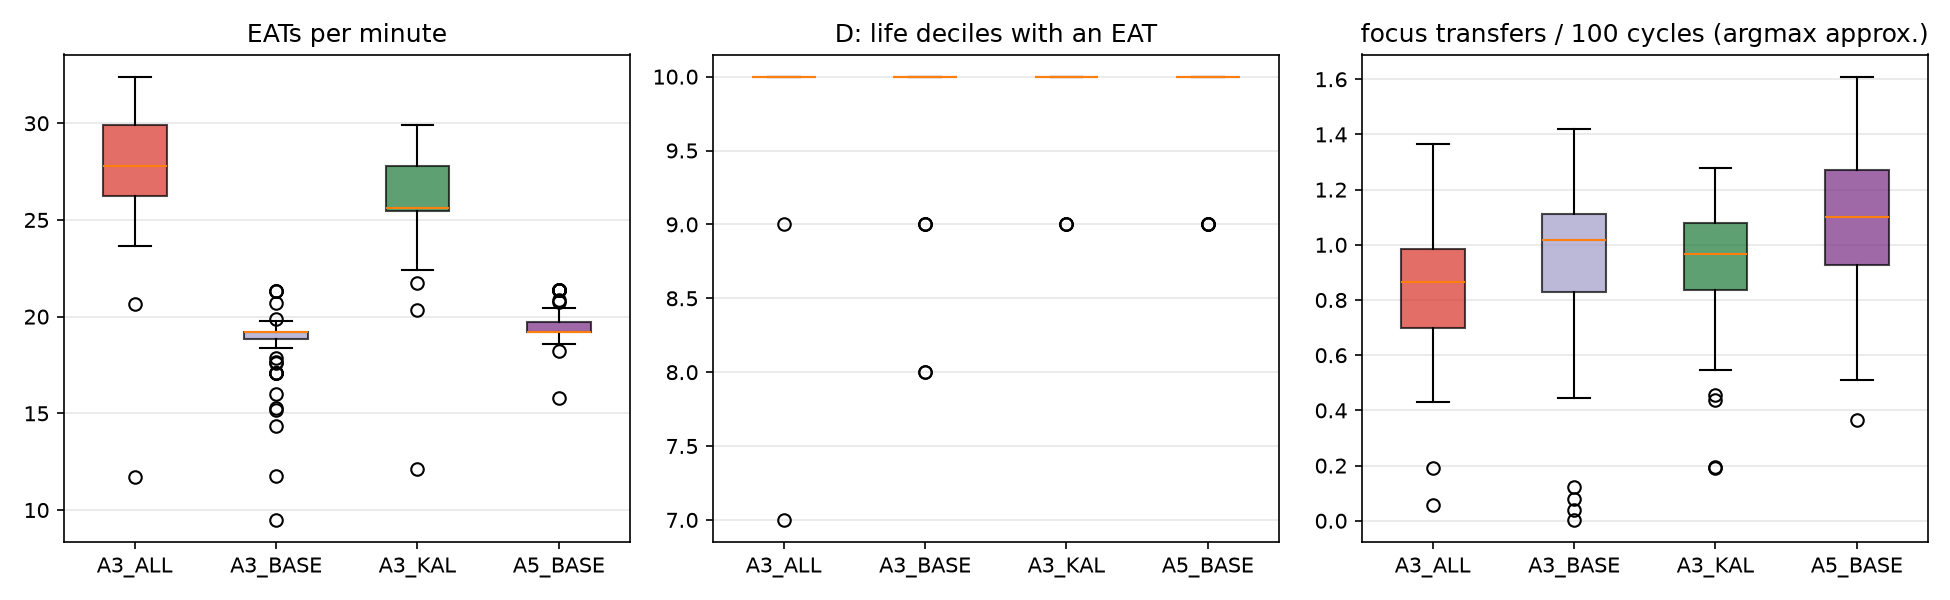
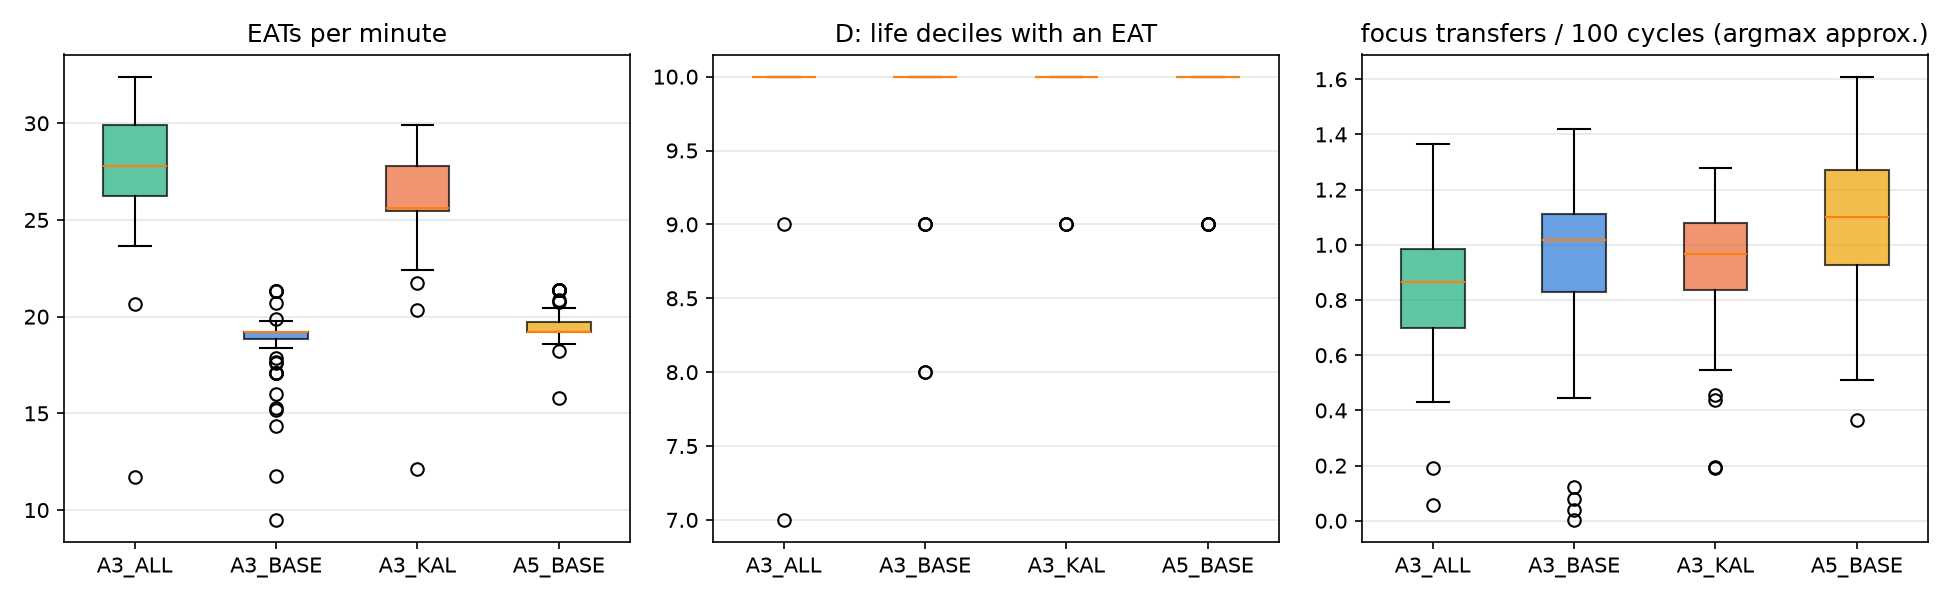
docs: per-arm comparison figure in the p117_kalman reports instead of the wide table; arm colours from the dataviz reference palette in the specs

diff --git a/analysis/diagnostics/p117_kalman_arm_figure.py b/analysis/diagnostics/p117_kalman_arm_figure.py
@@ -1,0 +1,69 @@
+"""Per-arm comparison figure of a p117_kalman report (replaces the wide per-arm table).
+
+One small panel per measure, one dot per trial (trial mean over the trial's creatures), a bar at the arm mean with its value written above it.
+Same arm order and colours as the spec (experiments/<name>.yml), which uses the dataviz reference palette's first slots.
+
+    python3 analysis/diagnostics/p117_kalman_arm_figure.py <experiment>   # p117_kalman | p117_kalman_local
+"""
+import sys
+import pathlib
+
+import matplotlib
+matplotlib.use("Agg")
+import matplotlib.pyplot as plt
+import numpy as np
+import pandas as pd
+import yaml
+
+TEXT, MUTED, GRID, SURFACE = "#0b0b0b", "#52514e", "#e4e3df", "#fcfcfb"
+PANELS = [("died", "Creatures dead at the cap (%)", 100.0, "{:.0f}%"),
+          ("dH_life", "d(H) over life (lower is better)", 1.0, "{:.2f}"),
+          ("eat_per_min", "EATs per minute", 1.0, "{:.1f}"),
+          ("eat_rg_per_min", "RED + GREEN EATs per minute", 1.0, "{:.1f}")]
+
+
+def main(name):
+    spec = yaml.safe_load(open(f"experiments/{name}.yml"))
+    fig_dir = pathlib.Path(f"docs/reports/figures/{name}")
+    cr = pd.read_csv(fig_dir / "creature_metrics.csv")
+    arms = [c["key"] for c in spec["conditions"] if c["key"] in set(cr["condition"])]
+    label = {c["key"]: c["label"] for c in spec["conditions"]}
+    color = {c["key"]: c["color"] for c in spec["conditions"]}
+    short = {"a3_base": "A3\ncontrol", "a3_mc": "A3 +\nAPPROACH", "a3_kal": "A3 +\nKalman", "a3_all": "A3 + Kalman\n+ whole-draw", "a5_base": "A5\ncontrol"}
+    n_trials = cr["trial"].nunique()
+    fig, axes = plt.subplots(2, 2, figsize=(10.5, 7.6), facecolor=SURFACE)
+    rng = np.random.default_rng(1)
+    for ax, (col, title, scale, fmt) in zip(axes.ravel(), PANELS):
+        ax.set_facecolor(SURFACE)
+        tm = cr.groupby(["condition", "trial"])[col].mean().unstack(0) * scale
+        top = float(np.nanmax(tm.values))
+        for i, a in enumerate(arms):
+            v = tm[a].dropna().values
+            ax.bar(i, v.mean(), width=0.55, color=color[a], alpha=0.28, zorder=1, linewidth=0)
+            ax.hlines(v.mean(), i - 0.275, i + 0.275, color=color[a], linewidth=2.5, zorder=3)
+            ax.scatter(i + rng.uniform(-0.17, 0.17, len(v)), v, s=34, color=color[a], edgecolor=SURFACE, linewidth=1.2, zorder=4)
+            ax.text(i, top * 1.07, fmt.format(v.mean()), ha="center", va="bottom", fontsize=11, color=TEXT, fontweight="bold")
+        ax.set_xticks(range(len(arms)))
+        ax.set_xticklabels([short[a] for a in arms], fontsize=9, color=TEXT)
+        ax.set_ylim(0, top * 1.22)
+        if col == "died":
+            ax.set_yticks(range(0, 101, 20))
+        ax.set_title(title, loc="left", fontsize=11.5, color=TEXT, pad=10)
+        ax.grid(axis="y", color=GRID, linewidth=0.8, zorder=0)
+        ax.tick_params(axis="y", colors=MUTED, labelsize=9, length=0)
+        ax.tick_params(axis="x", length=0)
+        for s in ("top", "right", "left"):
+            ax.spines[s].set_visible(False)
+        ax.spines["bottom"].set_color(GRID)
+    cap = spec.get("name", name)
+    fig.suptitle(f"{cap}: per-arm comparison", x=0.01, ha="left", fontsize=13, color=TEXT, fontweight="bold")
+    fig.text(0.01, 0.005, f"Dot = one trial (mean of its {cr.groupby(['condition','trial']).size().max()} creatures; {n_trials} trials per arm); line and number = arm mean of the trial means.",
+             fontsize=8.5, color=MUTED, ha="left", va="bottom")
+    fig.tight_layout(rect=(0, 0.03, 1, 0.95))
+    out = fig_dir / "arms.png"
+    fig.savefig(out, dpi=170, facecolor=SURFACE)
+    print(out)
+
+
+if __name__ == "__main__":
+    main(sys.argv[1])

diff --git a/docs/reports/p117_kalman_report.md b/docs/reports/p117_kalman_report.md
@@ -25,7 +25,7 @@ Written before the run (recipe sections 2b and 4):
 
 ## Results
 
-**Headline.** Deaths at 60 minutes (of 60 creatures per arm): `a3_base` 20, `a3_kal` **13**, `a3_all` 28, `a5_base` 16. EATs per minute: 18.6, 25.8, 27.6, 19.6. d(H) over life: 1.83, 1.39, 1.65, 1.40.
+**Headline.** Deaths at 60 minutes (of 60 creatures per arm): `a3_base` 20, `a3_kal` **13**, `a3_all` 28, `a5_base` 16. EATs per minute: 18.6, 25.8, 27.6, 19.6. d(H) over life: 1.83, 1.38, 1.65, 1.40.
 
 | contrast | deaths | log-rank p | Fisher p |
 |---|---|---|---|
@@ -38,24 +38,12 @@ Written before the run (recipe sections 2b and 4):
 
 The tables and figures below are the generated ones (per-arm creature means with trial means in brackets, survival curves, calibration, paired differences by seed).
 
-### Per-arm measures (creature mean, then trial means)
+### Per-arm comparison
 
-| measure | A3 + all three (+ whole-draw stop rule) | A3 (control) | A3 + APPROACH credit + Kalman operant | A5 (fixed order, control) |
-|---|---|---|---|---|
-| d(H) over life | 1.646 (trials 1.771, 1.280, 1.964, 1.207, 1.191, 1.822, 1.602, 2.118, 1.646, 1.186, 1.962, 2.006) | 1.832 (trials 1.349, 2.367, 2.810, 1.327, 1.401, 3.238, 1.636, 1.532, 1.508, 1.661, 1.626, 1.525) | 1.385 (trials 0.992, 1.021, 1.813, 1.468, 1.348, 1.192, 1.238, 1.339, 2.437, 1.431, 1.059, 1.282) | 1.404 (trials 1.274, 1.069, 1.783, 1.225, 1.076, 1.163, 2.309, 1.049, 1.701, 1.233, 1.278, 1.683) |
-| d(H), first 180 s | 1.415 (trials 1.372, 1.583, 1.634, 1.052, 1.079, 1.323, 1.464, 1.701, 1.381, 1.258, 1.619, 1.516) | 1.862 (trials 2.351, 2.871, 2.990, 1.617, 1.390, 2.483, 1.164, 1.503, 1.845, 1.581, 1.234, 1.315) | 1.211 (trials 1.143, 1.014, 1.114, 1.305, 1.302, 1.155, 1.117, 1.657, 1.161, 1.015, 0.966, 1.581) | 1.450 (trials 1.326, 1.096, 1.040, 1.428, 1.038, 1.732, 1.205, 1.864, 1.939, 1.480, 1.828, 1.428) |
-| EATs per minute | 27.592 (trials 27.194, 29.048, 27.554, 27.762, 27.989, 28.444, 27.595, 23.813, 28.530, 28.048, 29.065, 26.060) | 18.567 (trials 19.276, 18.140, 17.151, 18.474, 19.206, 17.459, 19.580, 19.010, 18.944, 17.982, 18.708, 18.870) | 25.797 (trials 26.051, 26.480, 25.375, 26.350, 26.244, 27.342, 26.480, 26.052, 21.780, 24.149, 27.345, 25.915) | 19.557 (trials 19.653, 19.218, 19.715, 19.221, 19.220, 20.072, 19.067, 19.218, 19.221, 20.507, 20.200, 19.368) |
-| RED+GREEN EATs per minute | 12.074 (trials 11.957, 12.715, 12.076, 12.182, 12.443, 12.314, 12.208, 10.239, 12.639, 12.404, 12.689, 11.025) | 9.164 (trials 9.673, 8.744, 8.839, 9.239, 9.583, 8.150, 9.634, 9.137, 9.614, 8.856, 9.321, 9.174) | 11.849 (trials 11.931, 12.222, 11.820, 11.944, 11.944, 12.579, 11.989, 11.875, 10.072, 11.235, 12.534, 12.043) | 9.863 (trials 9.870, 9.659, 9.894, 9.934, 9.904, 10.303, 9.162, 9.859, 9.757, 10.234, 10.060, 9.723) |
-| D: life deciles with an EAT | 9.933 (trials 10.000, 10.000, 10.000, 10.000, 10.000, 9.800, 10.000, 9.400, 10.000, 10.000, 10.000, 10.000) | 9.883 (trials 10.000, 10.000, 9.800, 9.800, 10.000, 9.600, 10.000, 10.000, 10.000, 9.600, 10.000, 9.800) | 9.950 (trials 10.000, 10.000, 10.000, 10.000, 10.000, 10.000, 10.000, 10.000, 9.400, 10.000, 10.000, 10.000) | 9.933 (trials 9.800, 10.000, 10.000, 10.000, 10.000, 10.000, 9.600, 10.000, 10.000, 9.800, 10.000, 10.000) |
-| observed time (s) | 2850.982 (trials 2542.157, 3595.753, 2081.812, 3596.349, 3562.212, 2529.032, 2892.129, 2460.975, 3462.098, 3092.729, 3215.478, 1181.062) | 3029.297 (trials 3254.577, 2919.953, 2803.147, 3537.522, 3598.914, 1953.143, 3096.865, 2873.219, 3232.917, 2952.700, 2822.471, 3306.131) | 3257.556 (trials 3596.610, 3596.422, 2312.404, 3465.150, 3567.311, 3595.408, 3596.333, 3596.457, 1521.540, 3221.680, 3594.908, 3426.456) | 3239.535 (trials 3595.236, 3596.609, 2305.201, 3596.091, 3596.272, 3596.626, 1586.557, 3596.615, 3566.072, 3595.196, 3344.533, 2899.410) |
-| died (share) | 0.467 (trials 0.400, 0.000, 1.000, 0.000, 0.200, 0.800, 0.400, 0.600, 0.400, 0.200, 0.600, 1.000) | 0.333 (trials 0.200, 0.200, 0.400, 0.200, 0.000, 0.800, 0.200, 0.600, 0.200, 0.200, 0.400, 0.600) | 0.217 (trials 0.000, 0.000, 0.800, 0.200, 0.200, 0.000, 0.000, 0.000, 0.800, 0.200, 0.000, 0.400) | 0.267 (trials 0.000, 0.000, 1.000, 0.000, 0.000, 0.000, 1.000, 0.000, 0.200, 0.000, 0.400, 0.600) |
-| focus transfers per 100 cycles (argmax approx.) | 0.841 (trials 0.790, 0.978, 0.676, 0.974, 0.976, 0.803, 0.847, 0.598, 0.839, 1.049, 0.772, 0.785) | 0.929 (trials 1.058, 0.880, 0.781, 0.951, 1.035, 0.613, 1.056, 1.072, 1.080, 0.820, 0.910, 0.891) | 0.930 (trials 1.068, 1.035, 0.769, 0.869, 0.933, 1.079, 1.016, 0.942, 0.545, 0.917, 0.925, 1.057) | 1.080 (trials 1.173, 1.227, 0.795, 1.153, 1.173, 1.273, 0.694, 1.352, 0.968, 1.235, 1.044, 0.877) |
-| focus opens per 100 cycles (argmax approx.) | 0.001 (trials 0.002, 0.002, 0.001, 0.001, 0.001, 0.001, 0.002, 0.001, 0.001, 0.002, 0.000, 0.001) | 0.001 (trials 0.001, 0.001, 0.001, 0.001, 0.001, 0.001, 0.000, 0.002, 0.001, 0.001, 0.001, 0.001) | 0.001 (trials 0.001, 0.000, 0.002, 0.001, 0.001, 0.001, 0.002, 0.001, 0.001, 0.001, 0.002, 0.001) | 0.001 (trials 0.002, 0.001, 0.002, 0.001, 0.001, 0.001, 0.001, 0.001, 0.001, 0.001, 0.001, 0.000) |
-| focus transfers per 100 cycles (tracker) | 0.126 (trials 0.211, 0.207, 0.046, 0.051, 0.051, 0.238, 0.049, 0.130, 0.207, 0.049, 0.218, 0.048) | 0.137 (trials 0.081, 0.069, 0.064, 0.082, 0.271, 0.201, 0.194, 0.207, 0.237, 0.078, 0.078, 0.079) | 0.119 (trials 0.047, 0.045, 0.273, 0.233, 0.182, 0.222, 0.184, 0.052, 0.043, 0.045, 0.058, 0.042) | 0.130 (trials 0.231, 0.059, 0.065, 0.196, 0.061, 0.058, 0.213, 0.067, 0.228, 0.254, 0.073, 0.058) |
-| focus opens per 100 cycles (tracker) | 0.513 (trials 0.524, 0.530, 0.502, 0.507, 0.509, 0.514, 0.500, 0.514, 0.526, 0.506, 0.523, 0.502) | 0.497 (trials 0.491, 0.495, 0.495, 0.503, 0.502, 0.484, 0.506, 0.512, 0.504, 0.491, 0.489, 0.497) | 0.516 (trials 0.514, 0.511, 0.515, 0.519, 0.534, 0.529, 0.532, 0.503, 0.501, 0.502, 0.518, 0.515) | 0.520 (trials 0.531, 0.522, 0.513, 0.530, 0.510, 0.516, 0.511, 0.516, 0.542, 0.530, 0.518, 0.506) |
-| focused share of cycles (tracker) | 0.883 (trials 0.884, 0.871, 0.892, 0.874, 0.869, 0.880, 0.884, 0.913, 0.879, 0.870, 0.874, 0.906) | 0.929 (trials 0.921, 0.938, 0.944, 0.929, 0.921, 0.946, 0.926, 0.922, 0.912, 0.932, 0.928, 0.930) | 0.881 (trials 0.873, 0.883, 0.881, 0.878, 0.877, 0.866, 0.881, 0.892, 0.910, 0.885, 0.867, 0.878) | 0.907 (trials 0.900, 0.903, 0.908, 0.900, 0.908, 0.909, 0.925, 0.904, 0.903, 0.901, 0.906, 0.915) |
-| episodes per creature | 544.883 (trials 541.400, 775.000, 344.200, 605.800, 603.600, 566.000, 483.000, 478.000, 731.200, 517.200, 695.800, 197.400) | 575.883 (trials 563.800, 508.400, 485.000, 626.400, 805.200, 411.600, 640.400, 601.800, 691.000, 516.000, 485.200, 575.800) | 614.817 (trials 609.800, 603.400, 542.800, 758.200, 743.600, 777.800, 747.200, 602.600, 259.600, 534.200, 621.800, 576.800) | 626.800 (trials 798.800, 631.000, 402.200, 762.600, 620.400, 623.600, 343.000, 633.200, 796.000, 822.800, 592.800, 495.200) |
-| food share of EATs, first 20% of life (A3 criterion) | 0.445 (trials 0.458, 0.451, 0.456, 0.433, 0.455, 0.443, 0.455, 0.411, 0.444, 0.453, 0.430, 0.450) | 0.480 (trials 0.483, 0.492, 0.527, 0.459, 0.483, 0.445, 0.477, 0.461, 0.482, 0.465, 0.492, 0.489) | 0.461 (trials 0.466, 0.460, 0.457, 0.443, 0.445, 0.472, 0.445, 0.446, 0.501, 0.461, 0.455, 0.479) | 0.495 (trials 0.502, 0.482, 0.498, 0.507, 0.507, 0.500, 0.464, 0.501, 0.500, 0.484, 0.487, 0.505) |
+![Per-arm comparison](figures/p117_kalman/arms.png)
+
+One dot per trial, the line and the number above it the arm mean. The full per-arm table (all measures, creature means and trial means) is `figures/p117_kalman/creature_metrics.csv`, one row per creature.
+
 ### Drive deficit
 
 ![Drive deficit](figures/p117_kalman/deficit.png)
@@ -385,7 +373,7 @@ Differences of trial means, later arm minus earlier arm; SD has 2 degrees of fre
 
 ### 1. What the data say
 
-**The Kalman operant cell (with the APPROACH credit fix) brings A3 to the level of the fixed order.** `a3_kal` has 13 deaths against 16 for A5 (p = 0.56), the same d(H) (1.39 and 1.40; trial-level difference -0.02), and a mean observed time of 3258 s against 3240 s. In feeding it is clearly ahead of A5: +6.2 EATs per minute and +2.0 RED+GREEN EATs per minute, in 12 of 12 seeds. Against the A3 control the direction is the same everywhere: 13 against 20 deaths, d(H) lower in 10 of 12 seeds (mean -0.45), feeding higher in 12 of 12 seeds (+7.2 EATs per minute, +2.7 RED+GREEN). The A3 control and A5 do not differ here (20 against 16 deaths, p = 0.37), so in this run there was less deficit to close than in `p117_factorial` (29 against 15).
+**The Kalman operant cell (with the APPROACH credit fix) brings A3 to the level of the fixed order.** `a3_kal` has 13 deaths against 16 for A5 (p = 0.56), the same d(H) (1.38 and 1.40; trial-level difference -0.02), and a mean observed time of 3258 s against 3240 s. In feeding it is clearly ahead of A5: +6.2 EATs per minute and +2.0 RED+GREEN EATs per minute, in 12 of 12 seeds. Against the A3 control the direction is the same everywhere: 13 against 20 deaths, d(H) lower in 10 of 12 seeds (mean -0.45), feeding higher in 12 of 12 seeds (+7.2 EATs per minute, +2.7 RED+GREEN). The A3 control and A5 do not differ here (20 against 16 deaths, p = 0.37), so in this run there was less deficit to close than in `p117_factorial` (29 against 15).
 
 **The whole-draw stop rule is harmful.** `a3_all` has 28 deaths, against 13 for the same arm without the rule (log-rank p = 0.004, Fisher p = 0.007), worse than A5 (p = 0.018) and, not significantly, than the control (p = 0.16-0.19). Its d(H) is 0.26 higher than `a3_kal`'s (8 of 12 seeds worse) and its observed time shorter (2851 s against 3258 s). The 20-minute local pilot had found no difference between these two arms (2 and 2 deaths of 30); deaths are spread over the hour (median death time 1839 s for `a3_kal`, 1946 s for `a3_all`), so a third of the window sees only a third of them.
 

diff --git a/docs/reports/p117_kalman_local_report.md b/docs/reports/p117_kalman_local_report.md
@@ -19,24 +19,12 @@ Recipe sections 3 and 4, with the 20-minute window of section 8: (1) `a3_mc` no 
 
 **Headline.** Deaths at 20 minutes (of 30 creatures per arm): control 7, + APPROACH credit 3, + Kalman operant 2, + whole-draw rule 2. EATs per minute 17.2, 18.2, 24.6, 27.0; d(H) over life 2.15, 1.50, 1.21, 1.27. All three changes against the control: 2 against 7 deaths (log-rank p = 0.060, Fisher p = 0.145); survival and d(H) better in 5 of 6 seeds, feeding in 6 of 6.
 
-### Per-arm measures (creature mean, then trial means)
+### Per-arm comparison
 
-| measure | A3 + all three (+ whole-draw stop rule) | A3 (control) | A3 + APPROACH credit + Kalman operant | A3 + APPROACH credit |
-|---|---|---|---|---|
-| d(H) over life | 1.271 (trials 1.043, 1.147, 1.765, 1.158, 1.541, 0.974) | 2.149 (trials 2.078, 2.276, 1.164, 2.472, 2.177, 2.729) | 1.210 (trials 1.034, 1.268, 1.516, 0.933, 1.217, 1.290) | 1.495 (trials 1.285, 1.376, 2.056, 1.127, 1.867, 1.259) |
-| d(H), first 180 s | 1.421 (trials 1.373, 1.351, 2.253, 0.983, 1.455, 1.109) | 1.830 (trials 1.528, 2.133, 1.769, 2.034, 1.674, 1.844) | 1.099 (trials 1.107, 1.016, 1.423, 1.036, 1.116, 0.896) | 1.507 (trials 1.461, 1.435, 1.621, 1.242, 1.625, 1.660) |
-| EATs per minute | 26.970 (trials 28.446, 25.859, 26.255, 27.151, 26.961, 27.151) | 17.235 (trials 15.100, 18.103, 19.394, 18.158, 14.939, 17.716) | 24.630 (trials 25.858, 23.273, 23.663, 25.860, 23.272, 25.855) | 18.152 (trials 18.100, 18.101, 17.116, 19.395, 19.394, 16.807) |
-| RED+GREEN EATs per minute | 11.951 (trials 12.516, 11.566, 11.335, 12.161, 12.149, 11.980) | 8.188 (trials 7.697, 8.014, 9.404, 8.640, 7.096, 8.278) | 11.477 (trials 12.323, 10.505, 11.147, 11.768, 10.888, 12.227) | 8.586 (trials 8.575, 8.626, 7.446, 9.617, 9.050, 8.201) |
-| D: life deciles with an EAT | 9.567 (trials 10.000, 9.400, 9.400, 9.600, 9.600, 9.400) | 9.000 (trials 7.800, 9.200, 9.200, 9.800, 8.200, 9.800) | 9.300 (trials 9.600, 9.200, 9.400, 9.200, 9.000, 9.400) | 9.133 (trials 8.600, 9.400, 8.600, 9.400, 9.800, 9.000) |
-| observed time (s) | 1156.956 (trials 1187.943, 1187.981, 1078.423, 1188.018, 1111.357, 1188.011) | 1017.769 (trials 1043.900, 1004.165, 1187.966, 1063.022, 885.639, 921.924) | 1171.269 (trials 1188.040, 1188.000, 1113.428, 1187.928, 1188.051, 1162.168) | 1121.276 (trials 1188.078, 1187.990, 787.545, 1187.954, 1188.008, 1188.082) |
-| died (share) | 0.067 (trials 0.000, 0.000, 0.200, 0.000, 0.200, 0.000) | 0.233 (trials 0.200, 0.200, 0.000, 0.200, 0.400, 0.400) | 0.067 (trials 0.000, 0.000, 0.200, 0.000, 0.000, 0.200) | 0.100 (trials 0.000, 0.000, 0.600, 0.000, 0.000, 0.000) |
-| focus transfers per 100 cycles (argmax approx.) | 0.956 (trials 1.179, 0.943, 0.623, 1.008, 0.879, 1.103) | 0.887 (trials 0.783, 0.939, 1.230, 1.055, 0.544, 0.769) | 1.020 (trials 1.128, 0.898, 0.766, 1.281, 1.026, 1.018) | 1.081 (trials 1.142, 1.135, 0.798, 1.292, 0.939, 1.179) |
-| focus opens per 100 cycles (argmax approx.) | 0.002 (trials 0.001, 0.002, 0.002, 0.002, 0.002, 0.001) | 0.001 (trials 0.001, 0.001, 0.001, 0.002, 0.001, 0.002) | 0.002 (trials 0.002, 0.001, 0.002, 0.001, 0.002, 0.001) | 0.002 (trials 0.002, 0.002, 0.002, 0.003, 0.001, 0.002) |
-| focus transfers per 100 cycles (tracker) | 0.063 (trials 0.065, 0.054, 0.042, 0.070, 0.060, 0.088) | 0.086 (trials 0.084, 0.076, 0.111, 0.085, 0.063, 0.100) | 0.075 (trials 0.071, 0.083, 0.075, 0.072, 0.066, 0.082) | 0.100 (trials 0.084, 0.111, 0.106, 0.094, 0.086, 0.116) |
-| focus opens per 100 cycles (tracker) | 0.508 (trials 0.502, 0.510, 0.509, 0.513, 0.503, 0.512) | 0.490 (trials 0.488, 0.495, 0.491, 0.497, 0.486, 0.486) | 0.507 (trials 0.505, 0.497, 0.502, 0.512, 0.518, 0.510) | 0.496 (trials 0.498, 0.500, 0.490, 0.497, 0.493, 0.498) |
-| focused share of cycles (tracker) | 0.888 (trials 0.869, 0.880, 0.913, 0.894, 0.894, 0.876) | 0.941 (trials 0.945, 0.942, 0.916, 0.940, 0.942, 0.958) | 0.883 (trials 0.869, 0.901, 0.887, 0.880, 0.884, 0.878) | 0.920 (trials 0.921, 0.915, 0.943, 0.905, 0.927, 0.910) |
-| episodes per creature | 197.900 (trials 202.000, 200.800, 178.600, 207.000, 188.000, 211.000) | 177.700 (trials 180.600, 175.000, 212.600, 186.400, 147.600, 164.000) | 202.933 (trials 204.400, 204.600, 191.400, 206.600, 206.800, 203.800) | 199.600 (trials 207.400, 216.000, 142.800, 209.600, 204.800, 217.000) |
-| food share of EATs, first 20% of life (A3 criterion) | 0.445 (trials 0.449, 0.475, 0.438, 0.431, 0.452, 0.424) | 0.476 (trials 0.513, 0.444, 0.469, 0.478, 0.538, 0.412) | 0.468 (trials 0.489, 0.445, 0.464, 0.461, 0.453, 0.495) | 0.447 (trials 0.473, 0.465, 0.375, 0.458, 0.453, 0.458) |
+![Per-arm comparison](figures/p117_kalman_local/arms.png)
+
+One dot per trial, the line and the number above it the arm mean. The full per-arm table (all measures, creature means and trial means) is `figures/p117_kalman_local/creature_metrics.csv`, one row per creature.
+
 ### Drive deficit
 
 ![Drive deficit](figures/p117_kalman_local/deficit.png)

diff --git a/docs/experiments/p117_kalman_recipe.md b/docs/experiments/p117_kalman_recipe.md
@@ -100,7 +100,7 @@ CCAD, image `sha-7cb8310`, 48 trials (4 arms x 12 trials, seeds 10900-10911, 60-
 |---|---|---|---|---|
 | deaths at 60 min (of 60) | 20 | **13** | 28 | 16 |
 | observed time (s) | 3029 | 3258 | 2851 | 3240 |
-| d(H) over life | 1.83 | 1.39 | 1.65 | 1.40 |
+| d(H) over life | 1.83 | 1.38 | 1.65 | 1.40 |
 | EATs per minute | 18.6 | 25.8 | 27.6 | 19.6 |
 | RED+GREEN EATs per minute | 9.2 | 11.8 | 12.1 | 9.9 |
 
